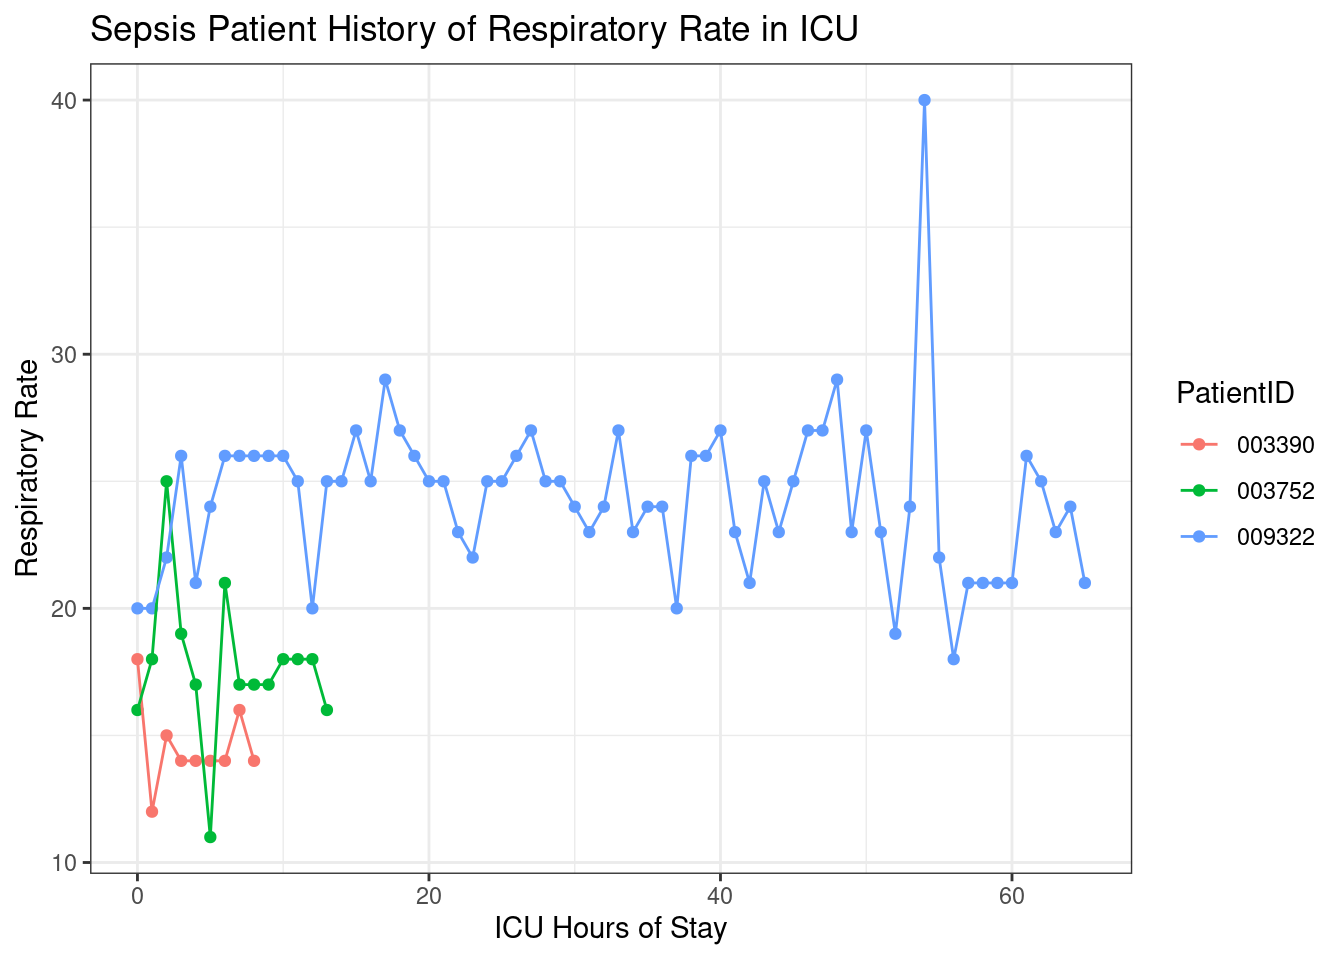
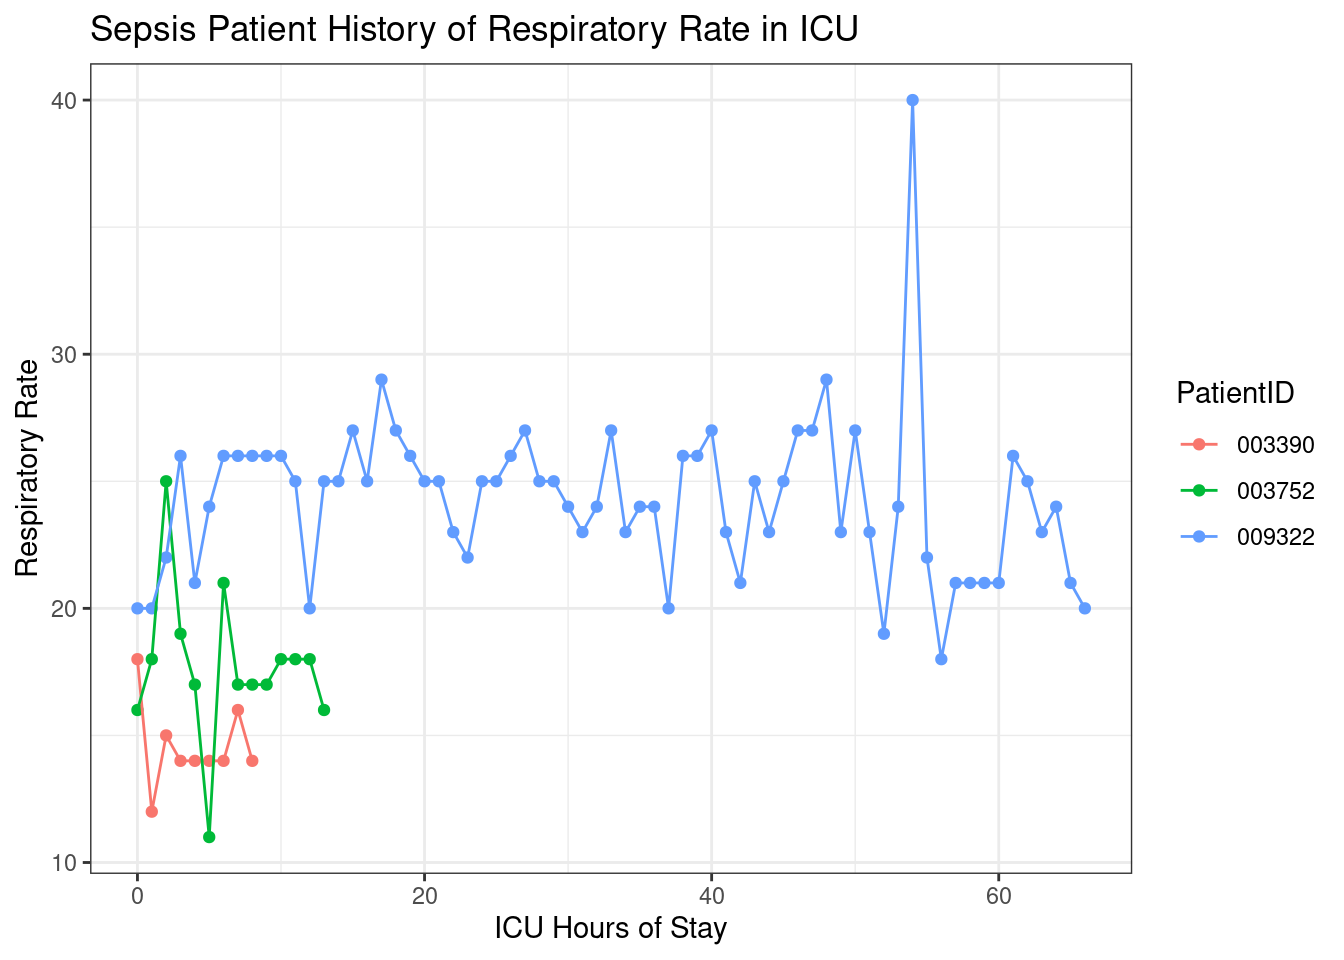
Updated report

diff --git a/A7.html b/A7.html
@@ -63,7 +63,7 @@ ul.task-list li input[type="checkbox"] {
 
 </header>
 
-<p>Report Last run 2023-04-11 15:11:50</p>
+<p>Report Last run 2023-04-11 16:15:11</p>
 <div class="cell">
 
 </div>
@@ -72,7 +72,7 @@ ul.task-list li input[type="checkbox"] {
 </div>
 <section id="task-4-make-an-icu-status-report" class="level1">
 <h1>Task 4: Make an ICU status report</h1>
-<p>This report was generated on 2023-04-11 15:11:52.</p>
+<p>This report was generated on 2023-04-11 16:15:13.</p>
 <div class="cell">
 <div class="cell-output-display">
 
@@ -104,10 +104,10 @@ ul.task-list li input[type="checkbox"] {
   </tr>
   <tr>
    <td style="text-align:left;"> 009322 </td>
-   <td style="text-align:right;"> 65 </td>
-   <td style="text-align:right;"> 77 </td>
+   <td style="text-align:right;"> 66 </td>
+   <td style="text-align:right;"> 84 </td>
    <td style="text-align:right;"> NA </td>
-   <td style="text-align:right;"> 21 </td>
+   <td style="text-align:right;"> 20 </td>
   </tr>
 </tbody>
 </table>
